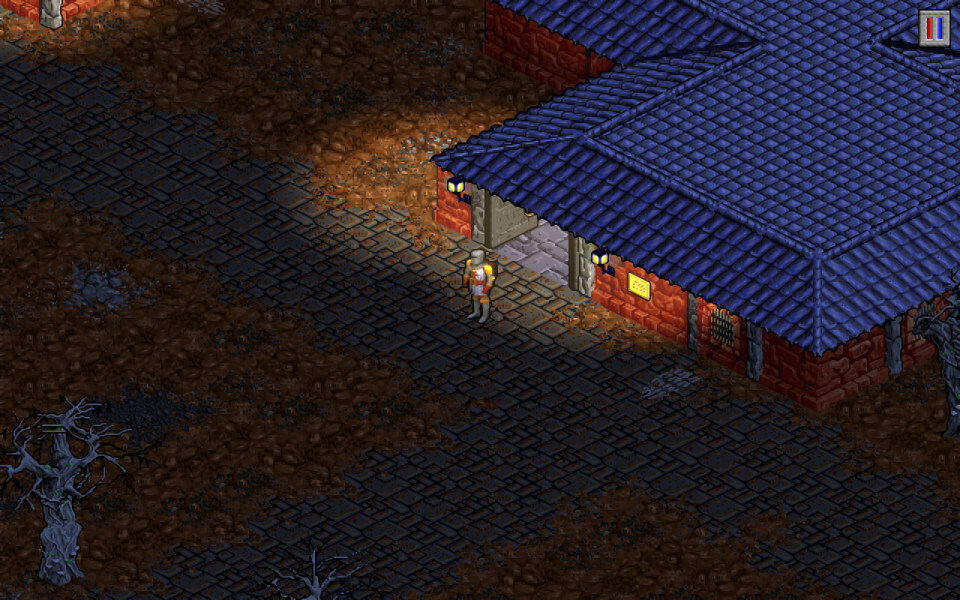
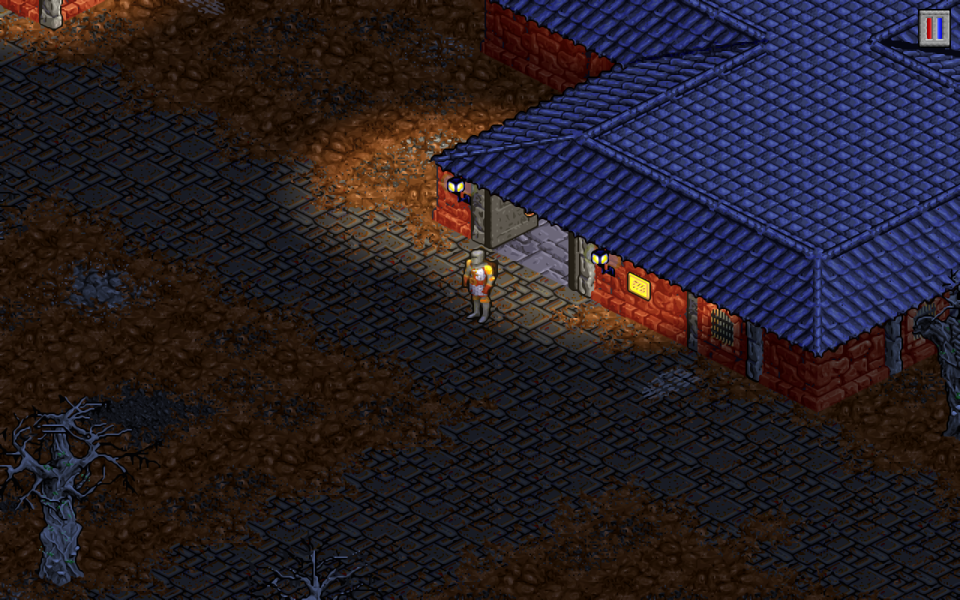
Lava leuchtet schwaecher, ueberlagerte Lichter begrenzt
- jedes Lavastueck gibt halb so viel Licht (Lavafelder summierten sich)
- Ausbrueche aus der Lava (480, 483) mit kleinerem Radius
- viele Lichter zusammen hoechstens so stark wie ein starkes Licht,
  in ihrer Farbe (Fels an Lava wurde blass und rosa)
- Projektseite: Nachtbilder neu

Claude-Session: https://claude.ai/code/session_01D5gTRwdmb546yCu41rYPKQ

Changed region(s): [[0.5, 0.33, 0.5938, 0.42]]

diff --git a/src/lighting.rs b/src/lighting.rs
@@ -96,6 +96,8 @@ const FIRE_REACH: i32 = 48;
 const POST: i32 = 80;
 /// How much brighter than the original a lit spot may get.
 const MOST: f32 = 1.3;
+/// The most light that lights add together (in the strongest colour).
+const ADDED: f32 = 1.0;
 
 /// A light on screen.
 pub struct Light {
@@ -117,7 +119,8 @@ fn light_of(shape: u32, frame: u32) -> Option<(f32, [f32; 3], bool)> {
     const LAMP: [f32; 3] = [1.5, 1.25, 0.8];
     const FIRE: [f32; 3] = [1.1, 0.6, 0.25];
     const CANDLE: [f32; 3] = [1.0, 0.8, 0.45];
-    const LAVA: [f32; 3] = [1.0, 0.35, 0.1];
+    // (lava lies in fields of dozens of pieces: each one gives little)
+    const LAVA: [f32; 3] = [0.5, 0.18, 0.05];
     Some(match shape {
         // lamp posts (the lamp at the top), wall lamps that burn, the lamp at the end
         690 | 691 => (90.0, LAMP, false),
@@ -137,7 +140,8 @@ fn light_of(shape: u32, frame: u32) -> Option<(f32, [f32; 3], bool)> {
         786 | 804 => (45.0, FIRE, true),
         // spells: explosions, a fire storm, balls and bolts of fire
         // (260 the fireball that chases the Avatar, 261 a flame bolt)
-        480 | 483 | 660 => (160.0, FIRE, true),
+        // (480 and 483 also burst out of lava all the time: not too far)
+        480 | 483 | 660 => (100.0, FIRE, true),
         110 => (180.0, FIRE, true),
         260 | 261 => (90.0, FIRE, true),
         59 | 372 | 697 => (60.0, FIRE, true),
@@ -436,7 +440,12 @@ pub fn apply(surf: &mut Surface, lights: &[Light], look: Look, ids: &[u32], item
             }
             let (r, g, b) = ((*px >> 16) & 0xFF, (*px >> 8) & 0xFF, *px & 0xFF);
             let luma = ((77 * r + 151 * g + 28 * b) >> 8) as usize;
+            // where many lights meet (a field of lava) the light does not
+            // add up without end: at most as strong as one strong light,
+            // in its colour (else the rock by lava turned pale and pink)
             let l = l.map(|v| v * lamp);
+            let most = l[0].max(l[1]).max(l[2]);
+            let l = if most > ADDED { l.map(|v| v * ADDED / most) } else { l };
             let ch = |v: u32, c: usize| {
                 let k = (dim[c][luma] + l[c]).min(MOST);
                 ((v as f32 * k + 255.0 * TINT * l[c]) as u32).min(255)
